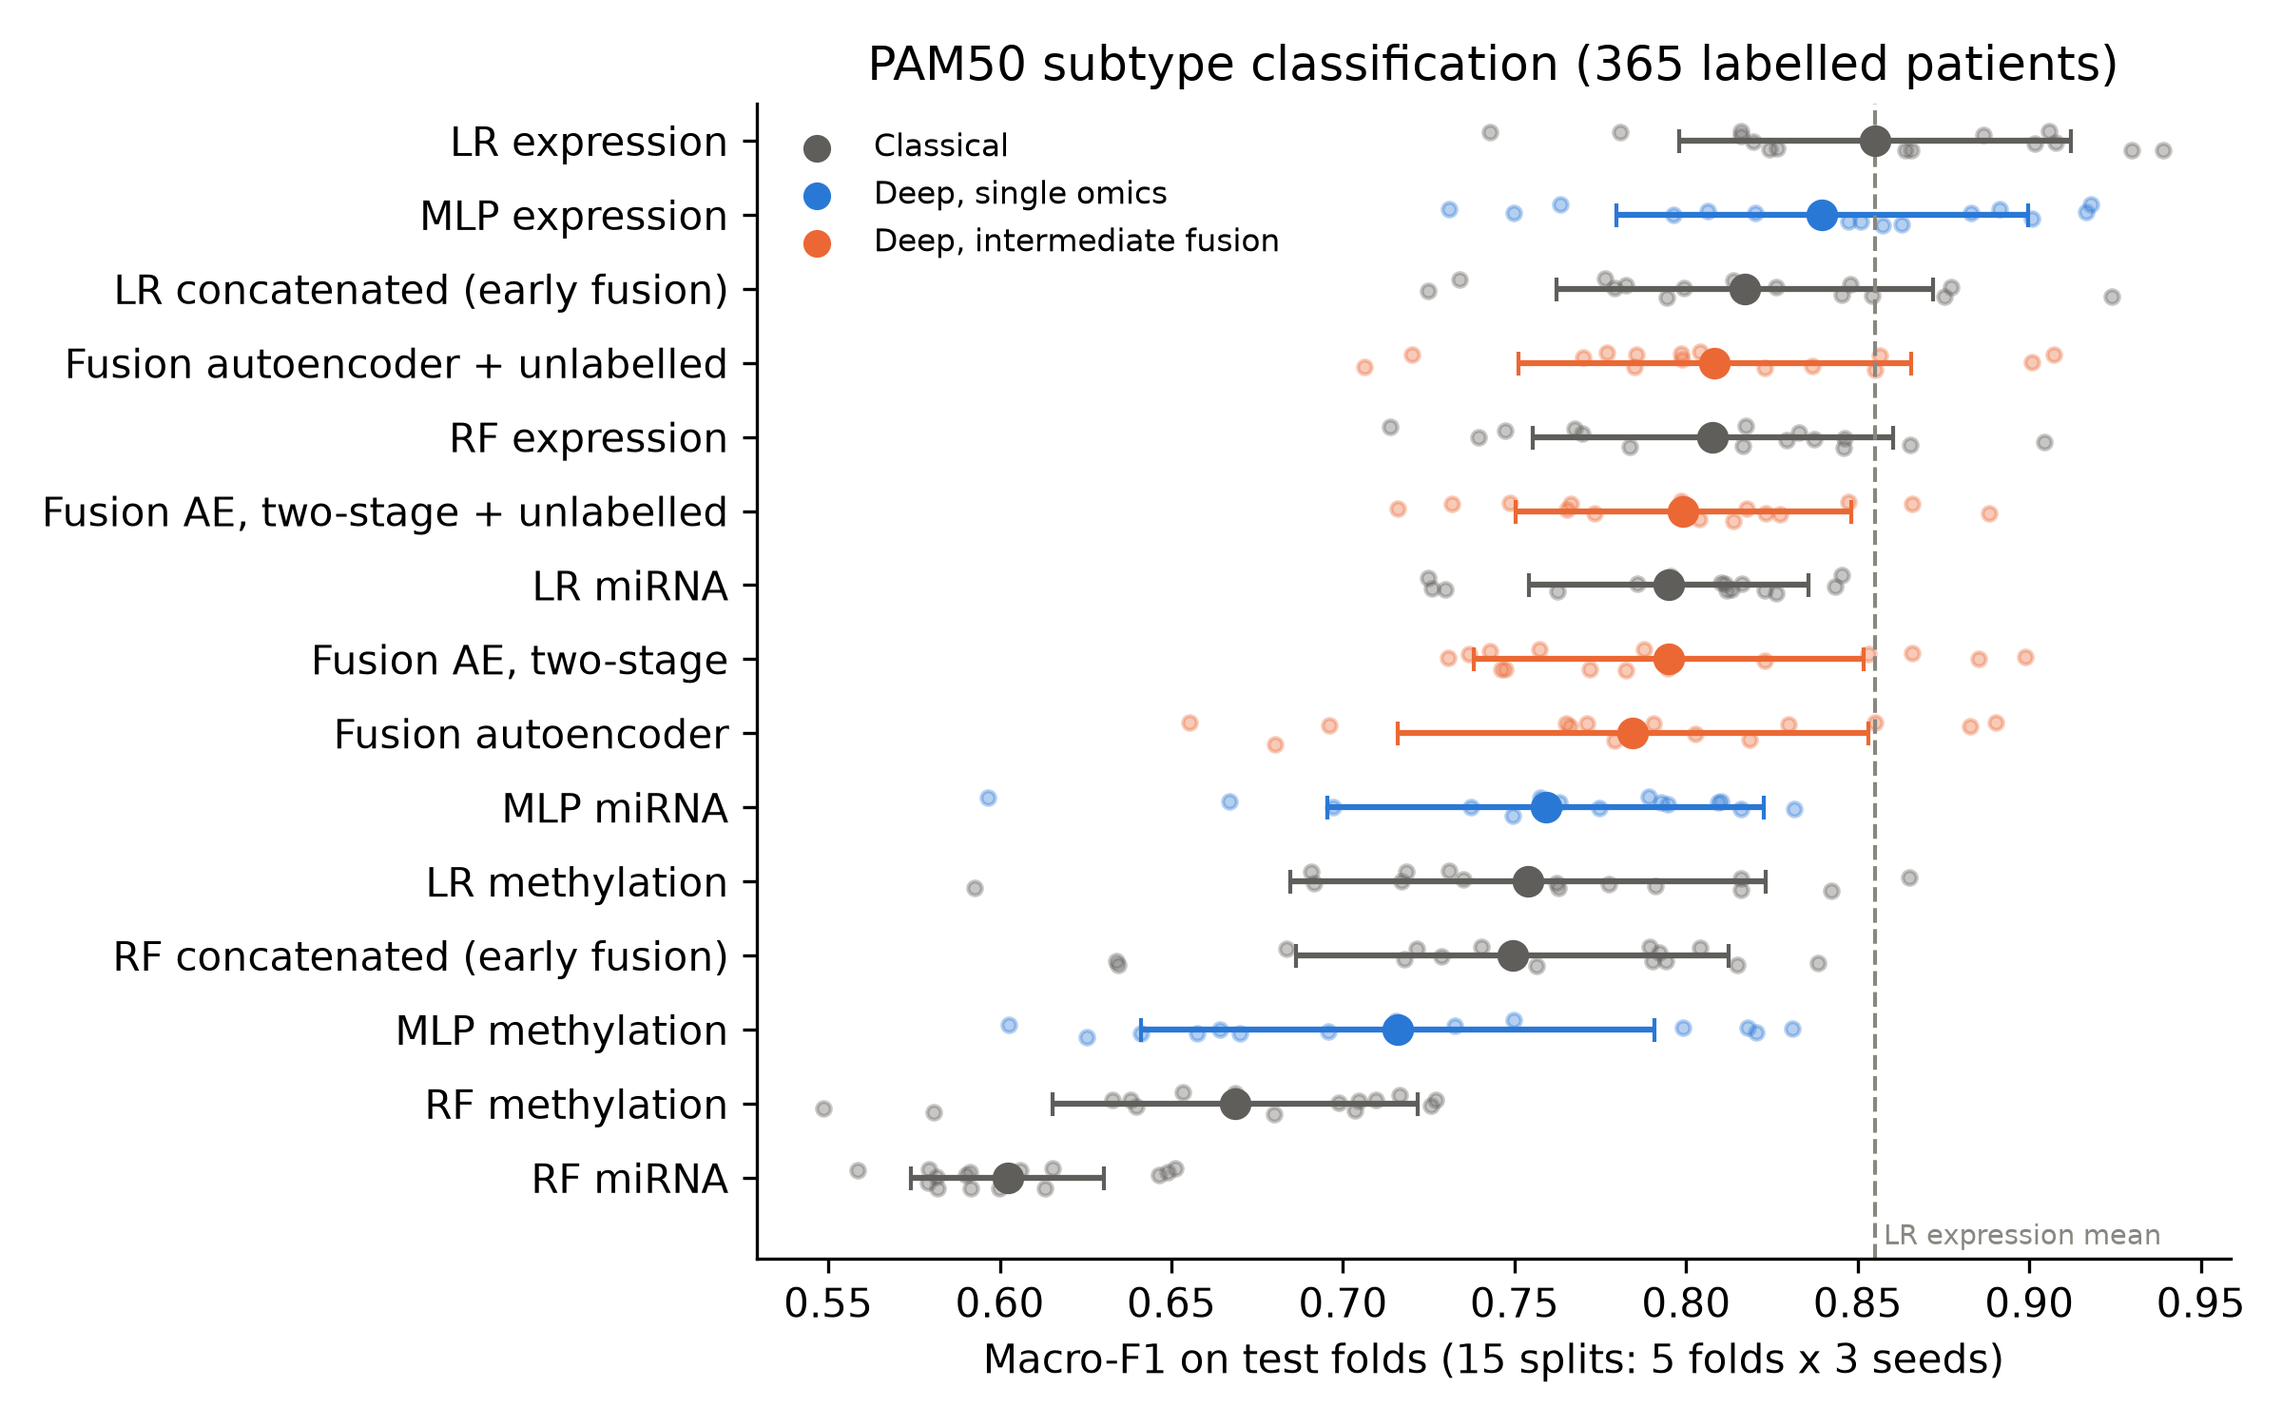
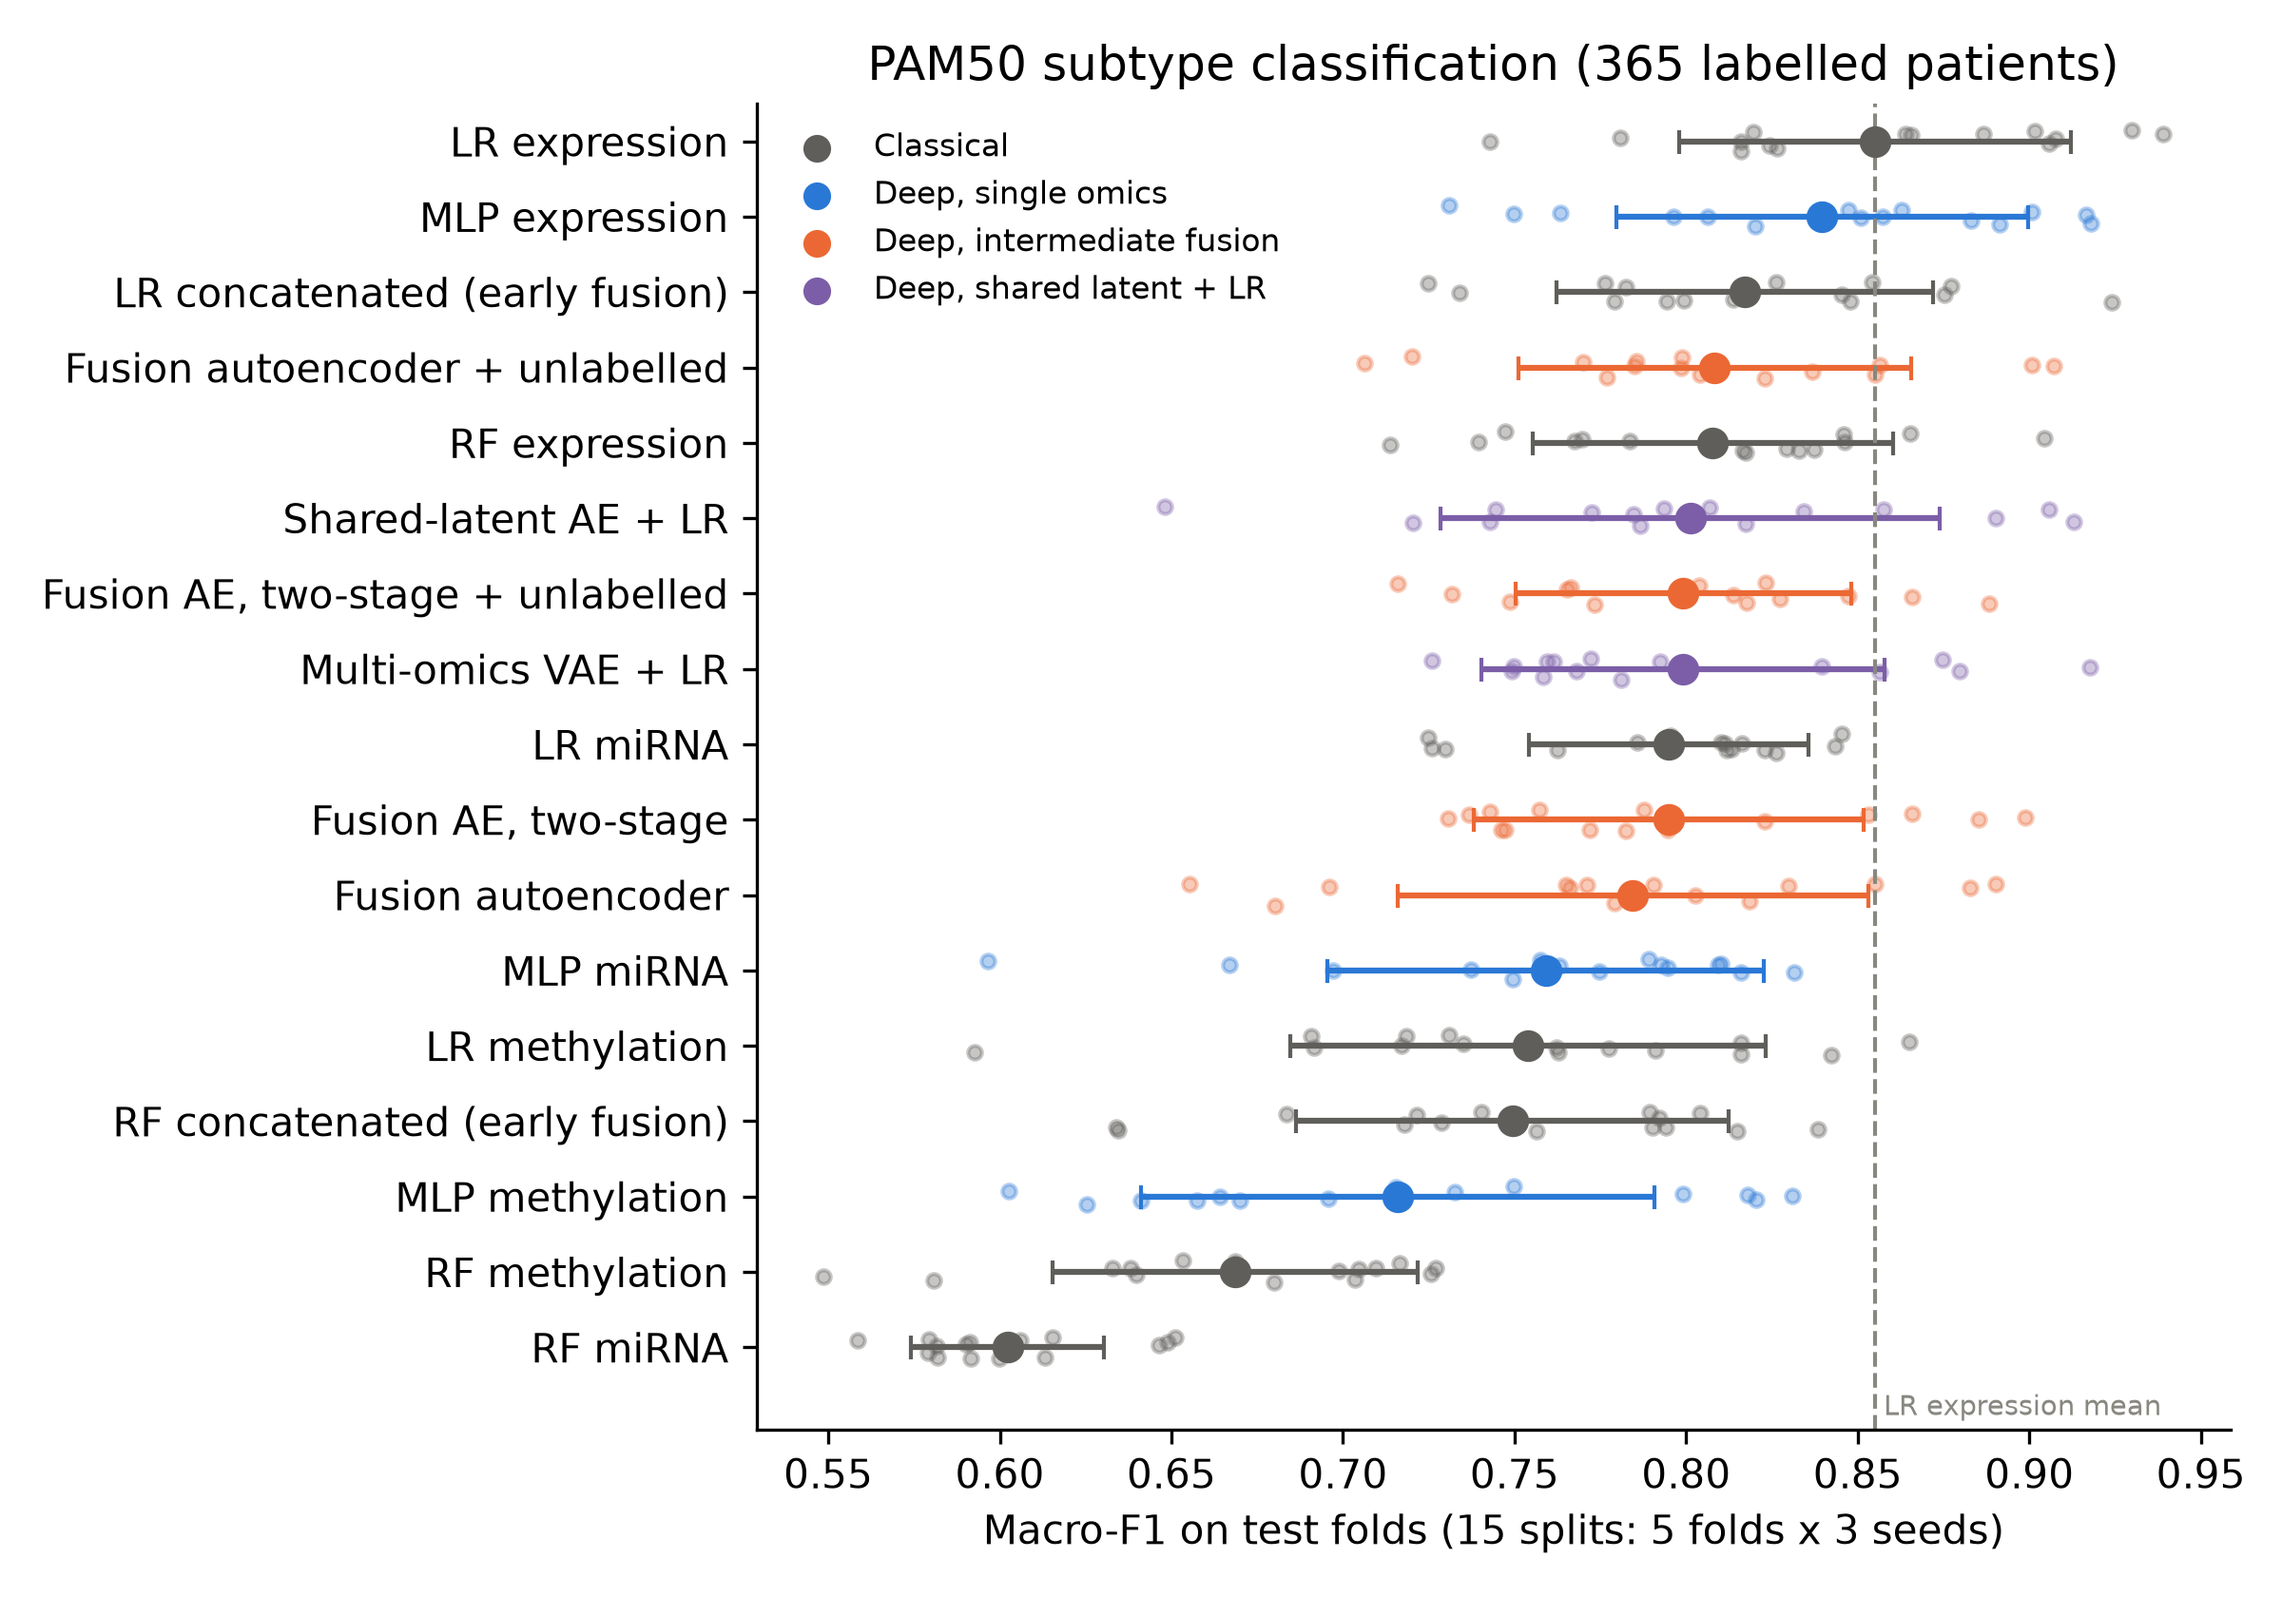
Add AE and VAE to model comparison figure and table

diff --git a/scripts/06_make_figures.py b/scripts/06_make_figures.py
@@ -1,4 +1,5 @@
 from pathlib import Path
+
 import matplotlib.pyplot as plt
 import numpy as np
 import pandas as pd
@@ -12,6 +13,7 @@ CLASSES = ["LumA", "LumB", "Basal", "Her2"]
 SUBTYPE_COLORS = {"LumA": "#2a78d6", "LumB": "#1baf7a", "Basal": "#e34948", "Her2": "#eda100",
                   "Unlabelled": "#b4b2a9"}
 
+# Display names and model families (one colour per family)
 MODELS = {
     "expr": ("LR expression", "Classical"),
     "mirna": ("LR miRNA", "Classical"),
@@ -28,11 +30,14 @@ MODELS = {
     "fusion_semi": ("Fusion autoencoder + unlabelled", "Deep, intermediate fusion"),
     "fusion_2stage": ("Fusion AE, two-stage", "Deep, intermediate fusion"),
     "fusion_2stage_semi": ("Fusion AE, two-stage + unlabelled", "Deep, intermediate fusion"),
+    "ae_lr": ("Shared-latent AE + LR", "Deep, shared latent + LR"),
+    "vae_lr": ("Multi-omics VAE + LR", "Deep, shared latent + LR"),
 }
 FAMILY_COLORS = {"Classical": "#5f5e5a", "Deep, single omics": "#2a78d6",
-                 "Deep, intermediate fusion": "#eb6834"}
+                 "Deep, intermediate fusion": "#eb6834", "Deep, shared latent + LR": "#7b5ea7"}
 REFERENCE = "expr"   
 
+# Patient counts 
 FLOW = [("Expression, primary tumours", 1097), ("Methylation, primary tumours", 785),
         ("miRNA, primary tumours", 749), ("All three omics", 617)]
 
@@ -74,7 +79,7 @@ def fig1_data_overview():
 
 
 def load_metrics():
-    files = ["baselines_metrics.csv", "mlp_metrics.csv", "fusion_metrics.csv"]
+    files = ["baselines_metrics.csv", "mlp_metrics.csv", "fusion_metrics.csv", "vae_metrics.csv"]
     return pd.concat([pd.read_csv(RES / f) for f in files if (RES / f).exists()])
 
 
@@ -96,8 +101,10 @@ def results_table(metrics):
     (RES / "results_table.md").write_text(table.to_markdown(index=False), encoding="utf-8")
     print(table.to_string(index=False))
 
+    # Paired comparisons between fusion versions 
     pairs = [("fusion_semi", "fusion"), ("fusion_2stage_semi", "fusion_2stage"),
-             ("fusion_2stage", "fusion"), ("fusion_2stage_semi", "fusion_semi")]
+             ("fusion_2stage", "fusion"), ("fusion_2stage_semi", "fusion_semi"),
+             ("vae_lr", "ae_lr"), ("vae_lr", "fusion_2stage_semi")]
     print()
     for a, b in pairs:
         if {a, b} <= set(wide.columns):
@@ -108,10 +115,10 @@ def results_table(metrics):
 
 def fig2_model_comparison(metrics):
     stats = metrics.groupby("model")["macro_f1"].agg(["mean", "std"])
-    order = [m for m in stats.sort_values("mean").index if m in MODELS]   
+    order = [m for m in stats.sort_values("mean").index if m in MODELS]   # best at the top
     rng = np.random.default_rng(0)
 
-    fig, ax = plt.subplots(figsize=(8, 5))
+    fig, ax = plt.subplots(figsize=(8, 5.6))
     for i, m in enumerate(order):
         color = FAMILY_COLORS[MODELS[m][1]]
         vals = metrics.loc[metrics["model"] == m, "macro_f1"].values

diff --git a/results/results_table.md b/results/results_table.md
@@ -15,3 +15,5 @@
 | Fusion autoencoder + unlabelled   | 0.808 ± 0.057 | 0.801 ± 0.063       | -0.047                   | 5/15                          |
 | Fusion AE, two-stage              | 0.795 ± 0.057 | 0.795 ± 0.063       | -0.060                   | 1/15                          |
 | Fusion AE, two-stage + unlabelled | 0.799 ± 0.049 | 0.798 ± 0.056       | -0.056                   | 2/15                          |
+| Shared-latent AE + LR             | 0.801 ± 0.073 | 0.792 ± 0.074       | -0.054                   | 3/15                          |
+| Multi-omics VAE + LR              | 0.799 ± 0.059 | 0.790 ± 0.070       | -0.056                   | 2/15                          |
